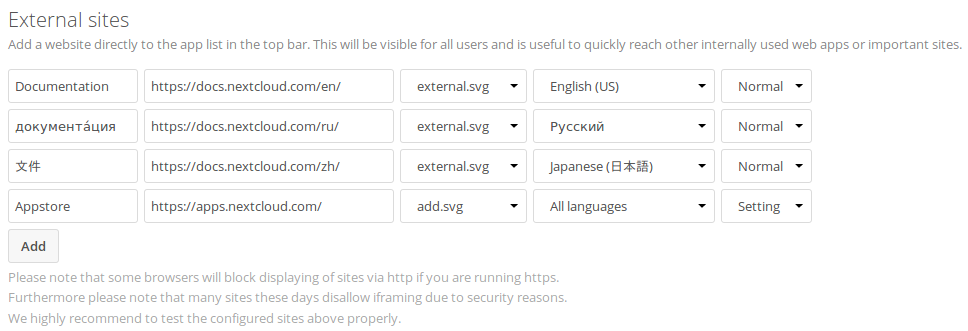
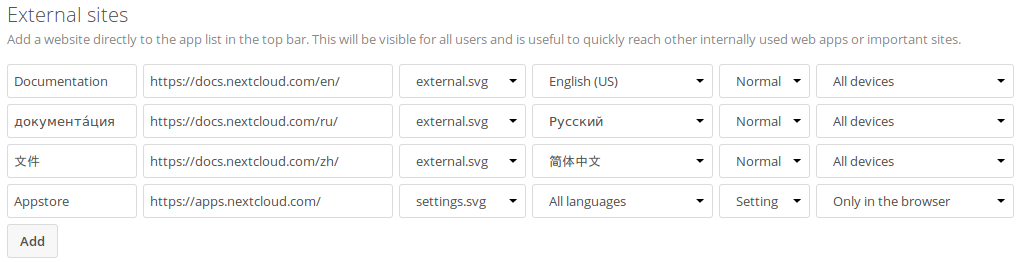
Add docs about device support

diff --git a/admin_manual/configuration_server/external_sites.rst b/admin_manual/configuration_server/external_sites.rst
@@ -23,6 +23,9 @@ Each link can have a unique icon, icons are currently loaded from ``apps/externa
 If you select a language, the link will only be displayed for users with the selected language.
 This allows you to have different documentation links for users depending on their language.
 
+It is also possible to add links for a special device (recognized by the user agent).
+Currently the following options are available: All devices, Android app, iOS app, Desktop client and all others (Browsers).
+
 Hover your cursor over a row to make the trashcan icon appear when you
 want to remove them.
 
